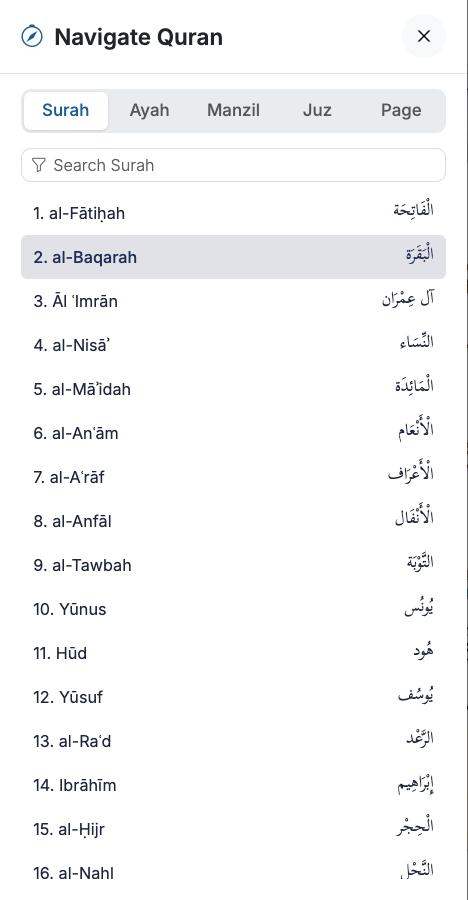
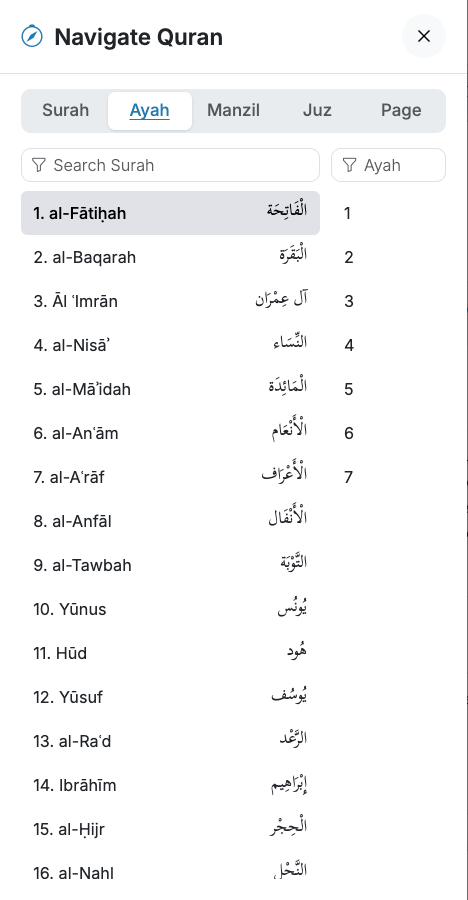
Align bilingual surah names in Quran navigation rows

diff --git a/docs/design-system/library.html b/docs/design-system/library.html
@@ -37,7 +37,7 @@
   </section>
   <section id="navigation"><h2>Navigation &amp; discovery</h2>
     <div class="grid">
-      <article id="quran-mode-navigation"><h3>Quran reading mode</h3><picture><source media="(max-width: 700px)" srcset="catalog/quran-modes-mobile.png"><img src="catalog/quran-modes.png" alt="Navigation compass beside the script and reading mode menu"></picture><p>Lead with the Midnight secondary action, followed by script, Study, Tafsir, Mushaf, Practice and Mudhakkir. Keep the mode links side by side as space narrows. At a toolbar width of 900 px, shorten Navigate to its compass icon. At 774 px, switch the mode links to the current-mode picker. Keep script selection directly available. The navigation drawer uses the shared close control, inset selector, local search and Midnight menu rows. Preserve the current reading reference when switching modes.</p><img src="catalog/quran-navigation-drawer.png" alt="Navigate Quran drawer with the Surah selector, bilingual destinations and search field"></article>
+      <article id="quran-mode-navigation"><h3>Quran reading mode</h3><picture><source media="(max-width: 700px)" srcset="catalog/quran-modes-mobile.png"><img src="catalog/quran-modes.png" alt="Navigation compass beside the script and reading mode menu"></picture><p>Lead with the Midnight secondary action, followed by script, Study, Tafsir, Mushaf, Practice and Mudhakkir. Keep the mode links side by side as space narrows. At a toolbar width of 900 px, shorten Navigate to its compass icon. At 774 px, switch the mode links to the current-mode picker. Keep script selection directly available. The navigation drawer uses the shared close control, inset selector, local search and Midnight menu rows. In both Surah and Ayah tabs, pair the numbered English name on the left with the Arabic name on the right in the same row. Preserve the current reading reference when switching modes.</p><img src="catalog/quran-navigation-drawer.png" alt="Navigate Quran drawer in Ayah mode with English and Arabic Surah names on the same line"></article>
       <article><h3>Site navigation</h3><picture><source media="(max-width: 700px)" srcset="shell/header-phone.png"><img src="shell/header.png" alt="Shared masthead with a left menu trigger, brand, navigation, search and account"></picture><p>Show desktop navigation from 992 px. Use an icon-only search button through 1199 px to give the brand room. The global search button uses an inset surface, the label “Search the library”, and a platform-specific keyboard shortcut. Leave .85 rem inside each end of the desktop pill, measured to the magnifier and shortcut respectively. Below 992 px, a magnifier opens the same dialog. Keep menu, search and account reachable at both sizes. Group the drawer into Read &amp; study, Memorize, Community and Personal. For signed-in readers, Personal starts with the same Profile link and person icon as the avatar menu. Drawer destinations, Settings category links and avatar actions share <code>ux-menu-list</code>. Each row uses regular text, an aligned icon and a 44px minimum target. Hover uses a solid Midnight surface with white text. Keyboard focus adds an inset ring. A current destination uses a quieter tint and medium weight. Dropdown hierarchy (under review): the avatar menu groups identity in an inset header, destinations in one icon column, and Sign out below a divider. Set the identity caption at .82rem Regular, the account name at 1rem Medium and destination rows at .9rem Regular. Mark the current destination with Medium and a tinted surface. Give each row at least 44px of height. On short pages the footer sits at the bottom of the available viewport, above the persistent navigation. On longer pages it follows the content. The footer preview uses a compact Midnight band with a small wordmark and inline links. On phones, each navigation group starts a new row with touch-sized links.</p><p><a href="shell/account.png">View the avatar menu</a> · <a href="shell/menu.png">View the mobile menu</a> · <a href="shell/footer.png">View the desktop footer</a></p></article>
       <article><h3>Category rail &amp; local search</h3><picture><source media="(max-width: 700px)" srcset="settings/rail-mobile.png"><img src="settings/rail.png" alt="Compact Search settings field above the category links"></picture><p>Place the Settings category rail to the right of the panels, with the shared full-width rail search above its links. Books and Settings use the same field, funnel icon, clear button, focus ring and side gutters. Name its scope in the placeholder and accessible label. Below 992px, search moves above the panels and the header subnavigation provides category navigation.</p><p>Match nested controls and asynchronously loaded catalogs. Announce the count or empty state. Clear and Escape restore the previous disclosures and return focus to the field.</p></article>
       <article><h3>Disclosure with current value</h3><img src="settings/disclosures.png" alt="Reading and listening rows with their saved values"><p>Group settings by task. Use a native details/summary row with a short label, current value or count, and a chevron. Place the summary below the label on narrow screens. Opening one row keeps the others available.</p></article>

diff --git a/public/static/css/quran-navigation.css b/public/static/css/quran-navigation.css
@@ -37,8 +37,12 @@
 .quran-navigation-list .quran-navigation-item { justify-content: space-between; }
 .quran-navigation-list .quran-navigation-item[hidden] { display: none; }
 .quran-navigation-item [lang="ar"] { text-align: end; font-size: 1rem; }
-.has-ayahs .quran-navigation-column:first-child .quran-navigation-item { display: grid; gap: .15rem; justify-content: stretch; }
 .has-ayahs .quran-navigation-ayahs { flex: 0 0 max(5.7rem, 27%); }
+@media (max-width: 389px) {
+  .quran-navigation-content.has-ayahs { gap: .35rem; padding-inline: .5rem; }
+  .has-ayahs .quran-navigation-ayahs { flex-basis: 4.5rem; }
+  .has-ayahs .quran-navigation-item { gap: .35rem; padding-inline: .35rem; }
+}
 .quran-mushaf-navigation-label {
   background: transparent; border: 0; border-bottom: 1px dotted transparent; color: inherit;
   cursor: pointer; font: inherit; letter-spacing: inherit; line-height: inherit; padding: 0; text-align: inherit;
